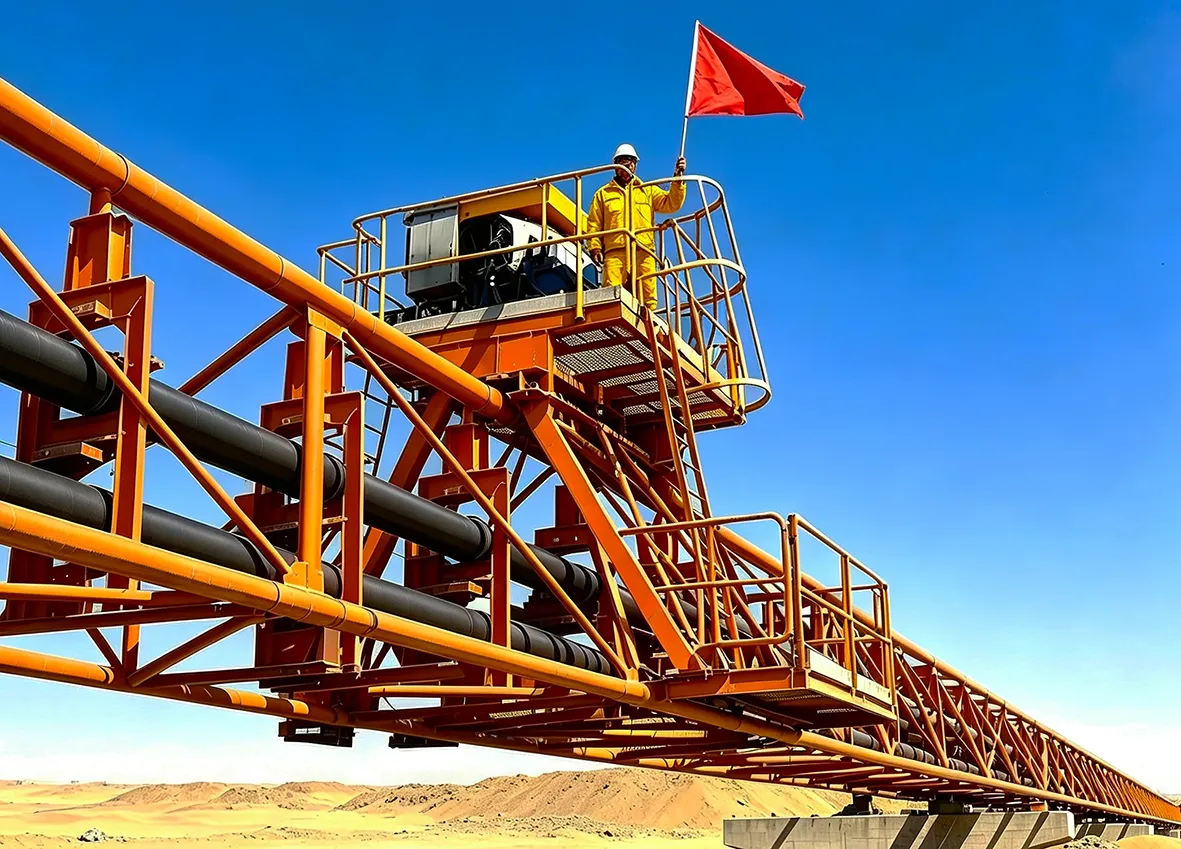
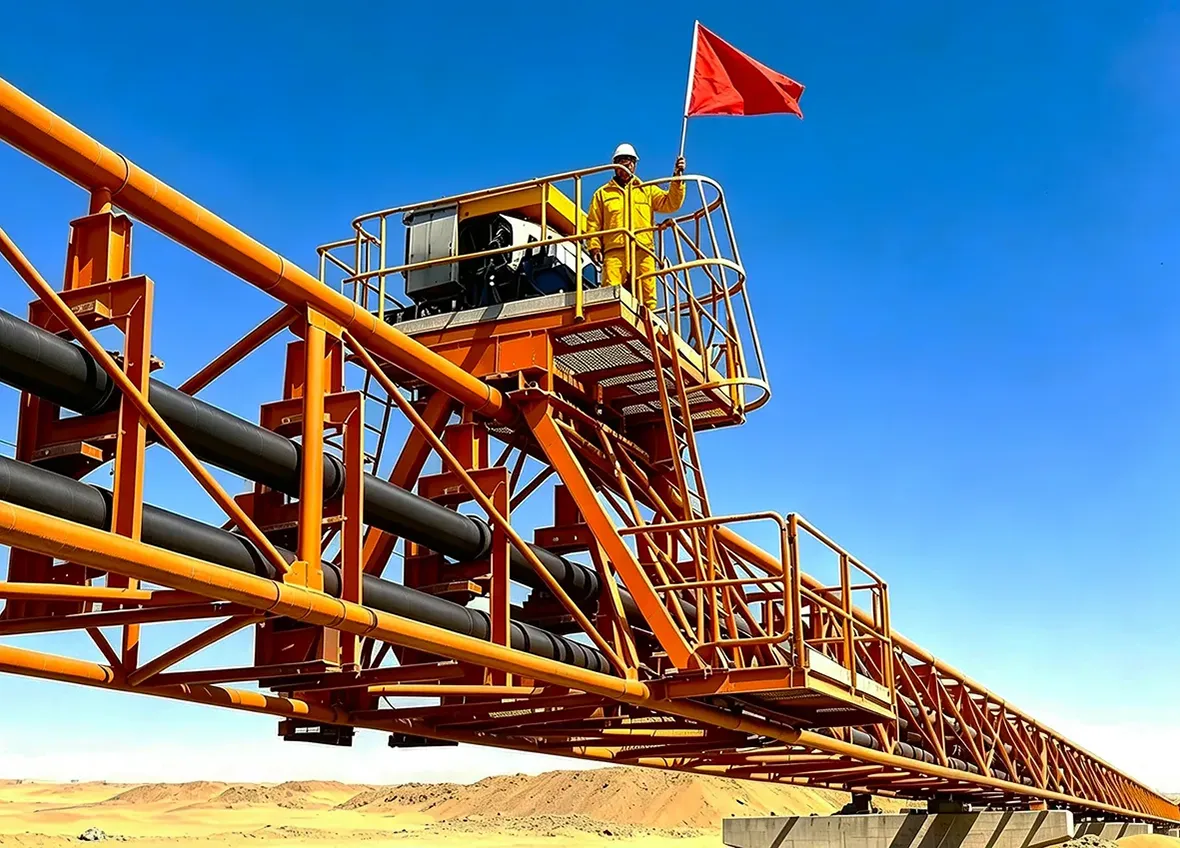
新版页面布局优化

diff --git a/index.html b/index.html
@@ -100,11 +100,58 @@
                 <div class="product-grid">
 
                     <div class="product-card">
-                        <div class="product-img" style="background-image: url('img/cart.webp'); background-size: cover; background-position: center;"></div>
+                        <div class="product-img" style="background-image: url('img/bc.webp'); background-size: cover; background-position: center; background-repeat: no-repeat;"></div>
                         <div class="product-info">
-                            <h4>Maintenance Trolley for Overland Conveyor</h4>
+                            <h4>Belt Conveyor</h4>
+                            <p>Belt Conveyors & Conveying System</p>
+                            <span class="product-tag">more details</span>
+                        </div>
+                    </div>
+
+                    <div class="product-card">
+                        <div class="product-img" style="background-image: url('img/cart.webp'); background-size: cover; background-position: center; background-repeat: no-repeat;"></div>
+                        <div class="product-info">
+                            <h4>Maintenance Trolley</h4>
                             <p>Maintenance Trolley for Long Distance Overland Conveyor</p>
-                            <a href="pdf/Maintenance Trolley for Overland Conveyor.pdf" target="_blank" rel="noopener" class="product-tag">more details</a>
+                            <span class="product-tag">more details</span>
+                        </div>
+                    </div>
+
+                     <div class="product-card">
+                        <div class="product-img" style="background-image: url('img/belt replacement.webp'); background-size: cover; background-position: center; background-repeat: no-repeat;"></div>
+                        <div class="product-info">
+                            <h4>Belt Winding Reel</h4>
+                            <p>Specialized Belt Winding Reel for Long Conveyor Belt Replacement</p>
+                            <span class="product-tag">more details</span>
+                        </div>
+                    </div>
+
+                     <div class="product-card">
+                        <div class="product-img" style="background-image: url('img/belt arrestor.webp'); background-size: cover; background-position: center; background-repeat: no-repeat;"></div>
+                        <div class="product-info">
+                            <h4>Belt Broken Arrestor</h4>
+                            <p>Specialized Belt Broken Arrestor for Protective of Conveyor Belt</p>
+                            <span class="product-tag">more details</span>
+                        </div>
+                    </div>
+
+                  
+
+                   <div class="product-card">
+                        <div class="product-img" style="background-image: url('img/idlers.webp'); background-size: cover; background-position: center; background-repeat: no-repeat;"></div>
+                        <div class="product-info">
+                            <h4>Idler Sets & Rollers</h4>
+                            <p>Idler Sets and Rollers</p>
+                            <span class="product-tag">more details</span>
+                        </div>
+                    </div>
+
+                   <div class="product-card">
+                        <div class="product-img" style="background-image: url('img/pulley.webp'); background-size: cover; background-position: center; background-repeat: no-repeat;"></div>
+                        <div class="product-info">
+                            <h4>Drive Pulley and Bend Pulley</h4>
+                            <p>Drive Pulley with Diamond or Chevron Anti-Slip Pattern Rubber Lagging</p>
+                            <span class="product-tag">more details</span>
                         </div>
                     </div>
 
